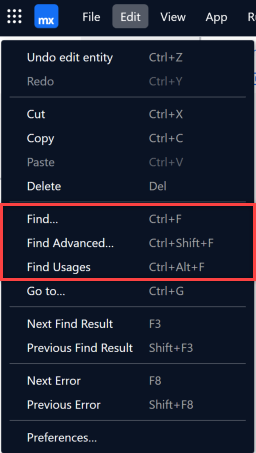
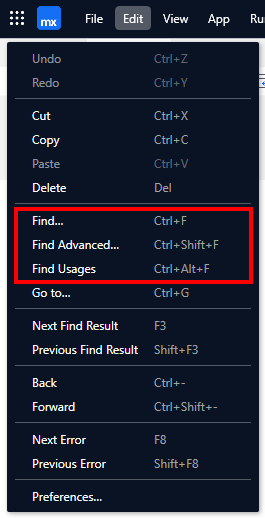
Removed 'look in' from Find

Changed region(s): [[0.0, 0.0, 1.0, 1.0]]

diff --git a/content/en/docs/refguide9/modeling/menus/edit-menu/find-and-find-advanced.md b/content/en/docs/refguide9/modeling/menus/edit-menu/find-and-find-advanced.md
@@ -9,7 +9,7 @@ weight: 10
 
 You can search for changes or usages of different elements, documents, XPaths, changes to various elements, in your app.  You do it via **Find**, **Find Advanced**, and **Find Usages** options under the **Edit** menu. 
 
-{{< figure src="/attachments/refguide9/modeling/menus/edit-menu/find-and-find-advanced/find-options.jpg" alt="Find Options" class="no-border" >}}
+{{< figure src="/attachments/refguide9/modeling/menus/edit-menu/find-and-find-advanced/find-options.png" alt="Find Options" class="no-border" >}}
 
 ## Find Option
 
@@ -17,9 +17,8 @@ You can find various elements in your app via the **Find** option. For example, 
 
 1. Click **Edit** > **Find** in the top-bar or press <kbd>Ctrl</kbd> + <kbd>F</kbd>.
 2. In the **Find** dialog box, leave **Match case** and **Match the whole word** unselected. This way you will search for all instances of the word "Employee" including such instances as "employee", Employees", or "Department_Employee":
-3. In the **Look in** section unselect items in your app where you do not want to search in:  
 
-    {{< figure src="/attachments/refguide9/modeling/menus/edit-menu/find-and-find-advanced/look-in.jpg" alt="Look in Section" class="no-border" >}}
+    {{< figure src="/attachments/refguide9/modeling/menus/edit-menu/find-and-find-advanced/find.png" alt="Find" class="no-border" >}}
 
 You can see search results in the **Find Results** pane:
 

diff --git a/content/en/docs/refguide10/modeling/menus/edit-menu/find-and-find-advanced.md b/content/en/docs/refguide10/modeling/menus/edit-menu/find-and-find-advanced.md
@@ -17,9 +17,8 @@ You can find various elements in your app via the **Find** option. For example, 
 
 1. Click **Edit** > **Find** in the top-bar or press <kbd>Ctrl</kbd> + <kbd>F</kbd>.
 2. In the **Find** dialog box, leave **Match case** and **Match the whole word** unselected. This way you will search for all instances of the word "Employee" including such instances as "employee", Employees", or "Department_Employee":
-3. In the **Look in** section unselect items in your app where you do not want to search in:  
 
-    {{< figure src="/attachments/refguide10/modeling/menus/edit-menu/find-and-find-advanced/look-in.jpg" alt="Look in Section" class="no-border" >}}
+    {{< figure src="/attachments/refguide10/modeling/menus/edit-menu/find-and-find-advanced/find.png" alt="Find" class="no-border" >}}
 
 You can see search results in the **Find Results** pane:
 

diff --git a/content/en/docs/refguide/modeling/menus/edit-menu/find-and-find-advanced.md b/content/en/docs/refguide/modeling/menus/edit-menu/find-and-find-advanced.md
@@ -17,9 +17,8 @@ You can find various elements in your app via the **Find** option. For example, 
 
 1. Click **Edit** > **Find** in the top-bar or press <kbd>Ctrl</kbd> + <kbd>F</kbd>.
 2. In the **Find** dialog box, leave **Match case** and **Match the whole word** unselected. This way you will search for all instances of the word "Employee" including such instances as "employee", Employees", or "Department_Employee":
-3. In the **Look in** section unselect items in your app where you do not want to search in:  
 
-    {{< figure src="/attachments/refguide/modeling/menus/edit-menu/find-and-find-advanced/look-in.jpg" alt="Look in Section" class="no-border" >}}
+    {{< figure src="/attachments/refguide/modeling/menus/edit-menu/find-and-find-advanced/find.png" alt="Find" class="no-border" >}}
 
 You can see search results in the **Find Results** pane:
 
